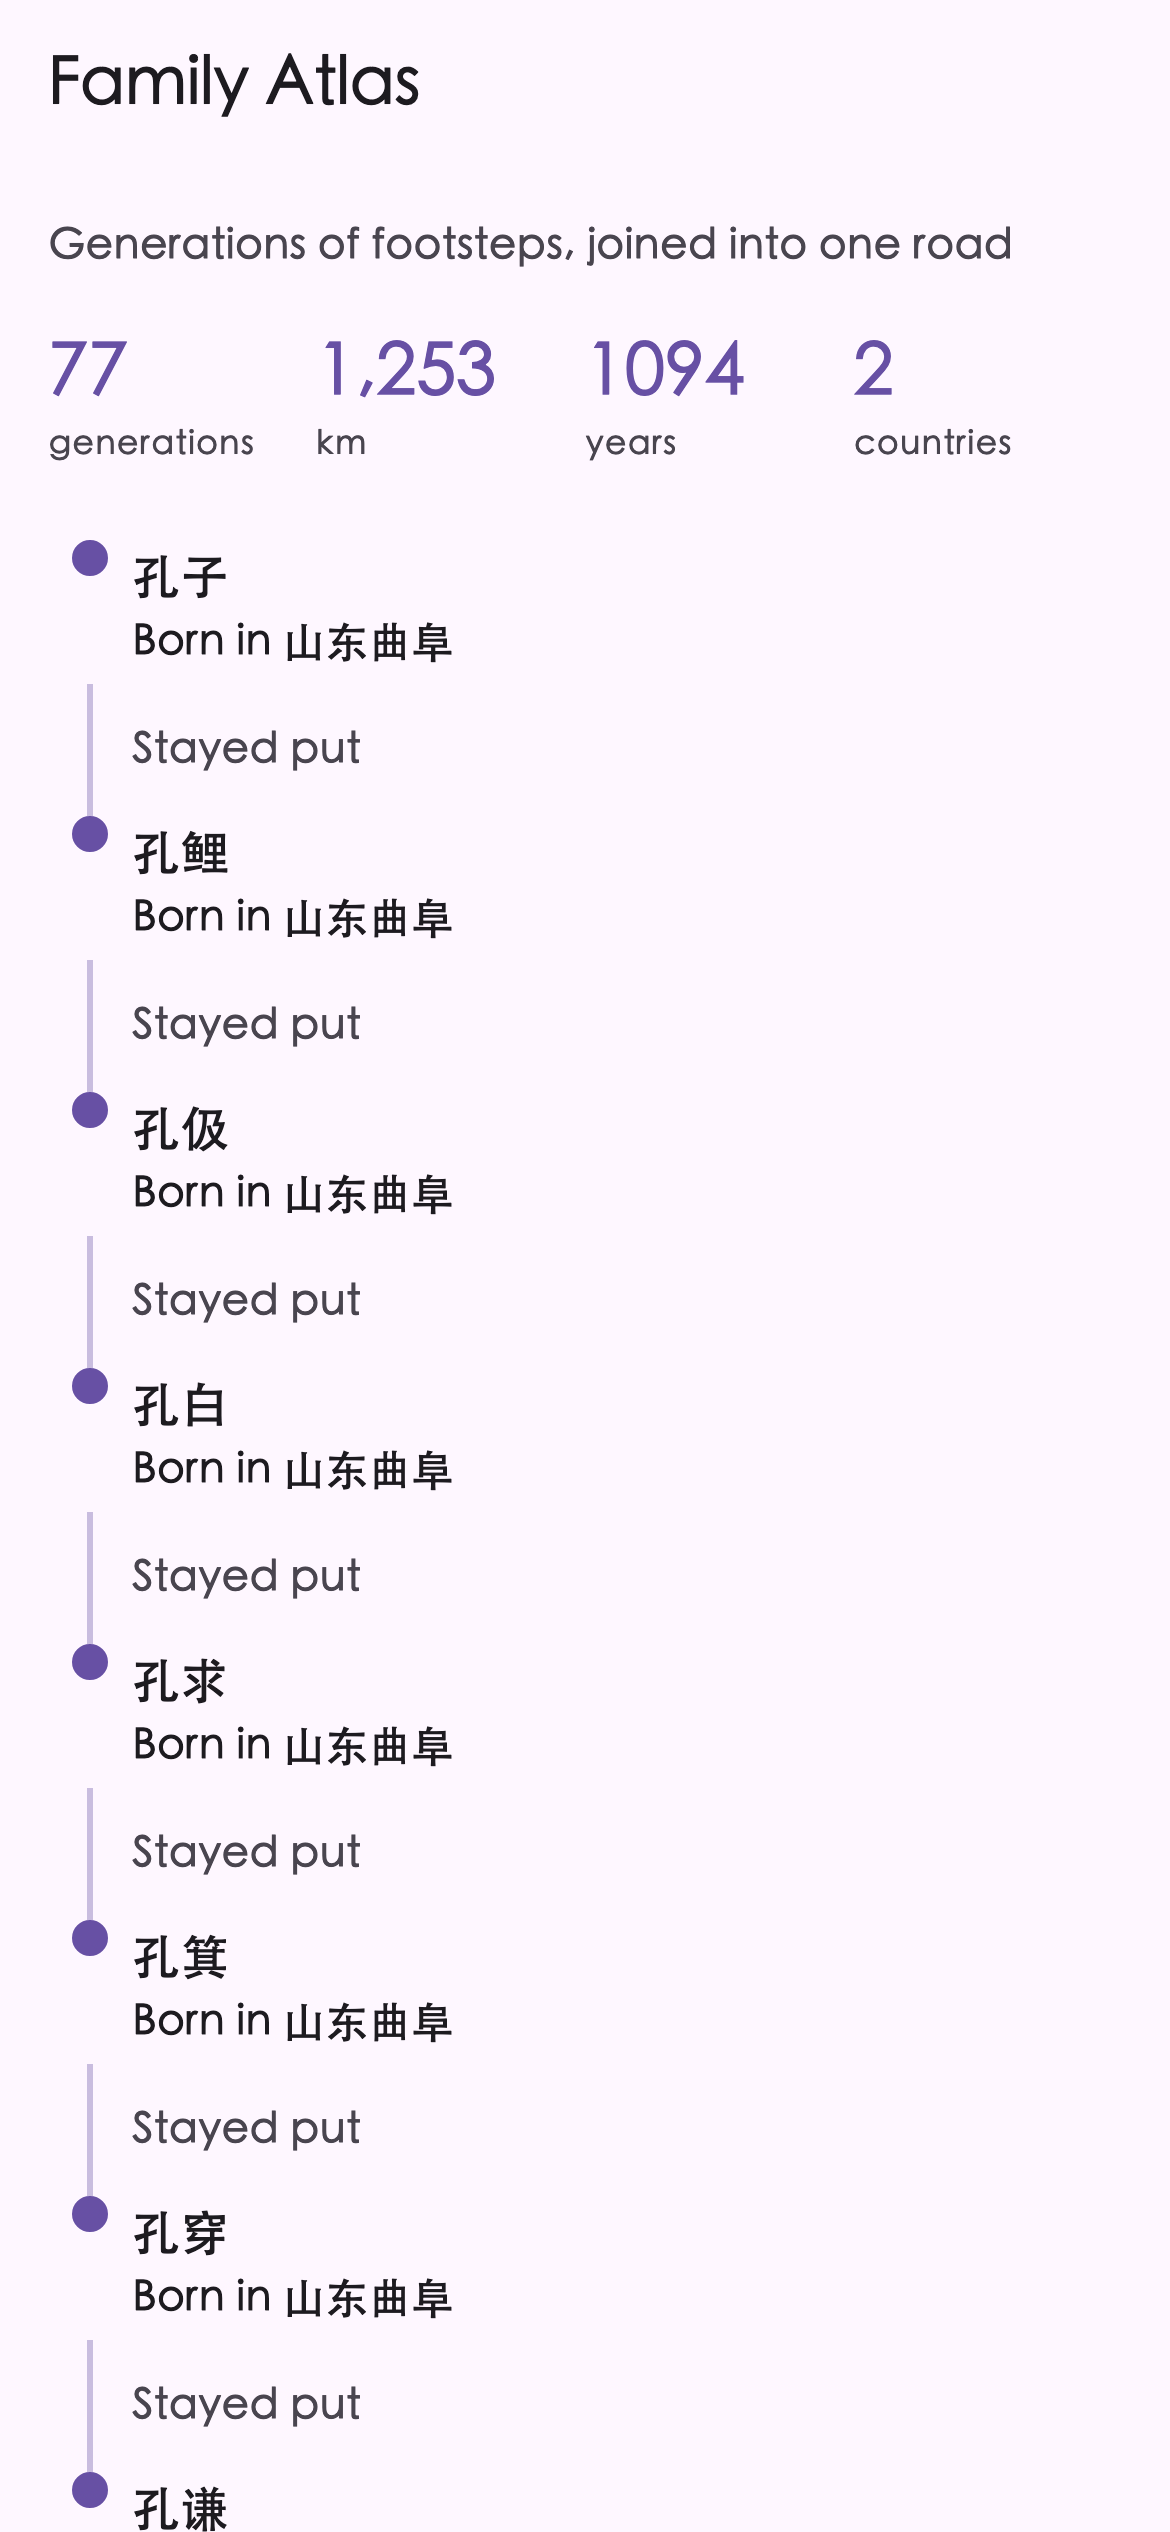
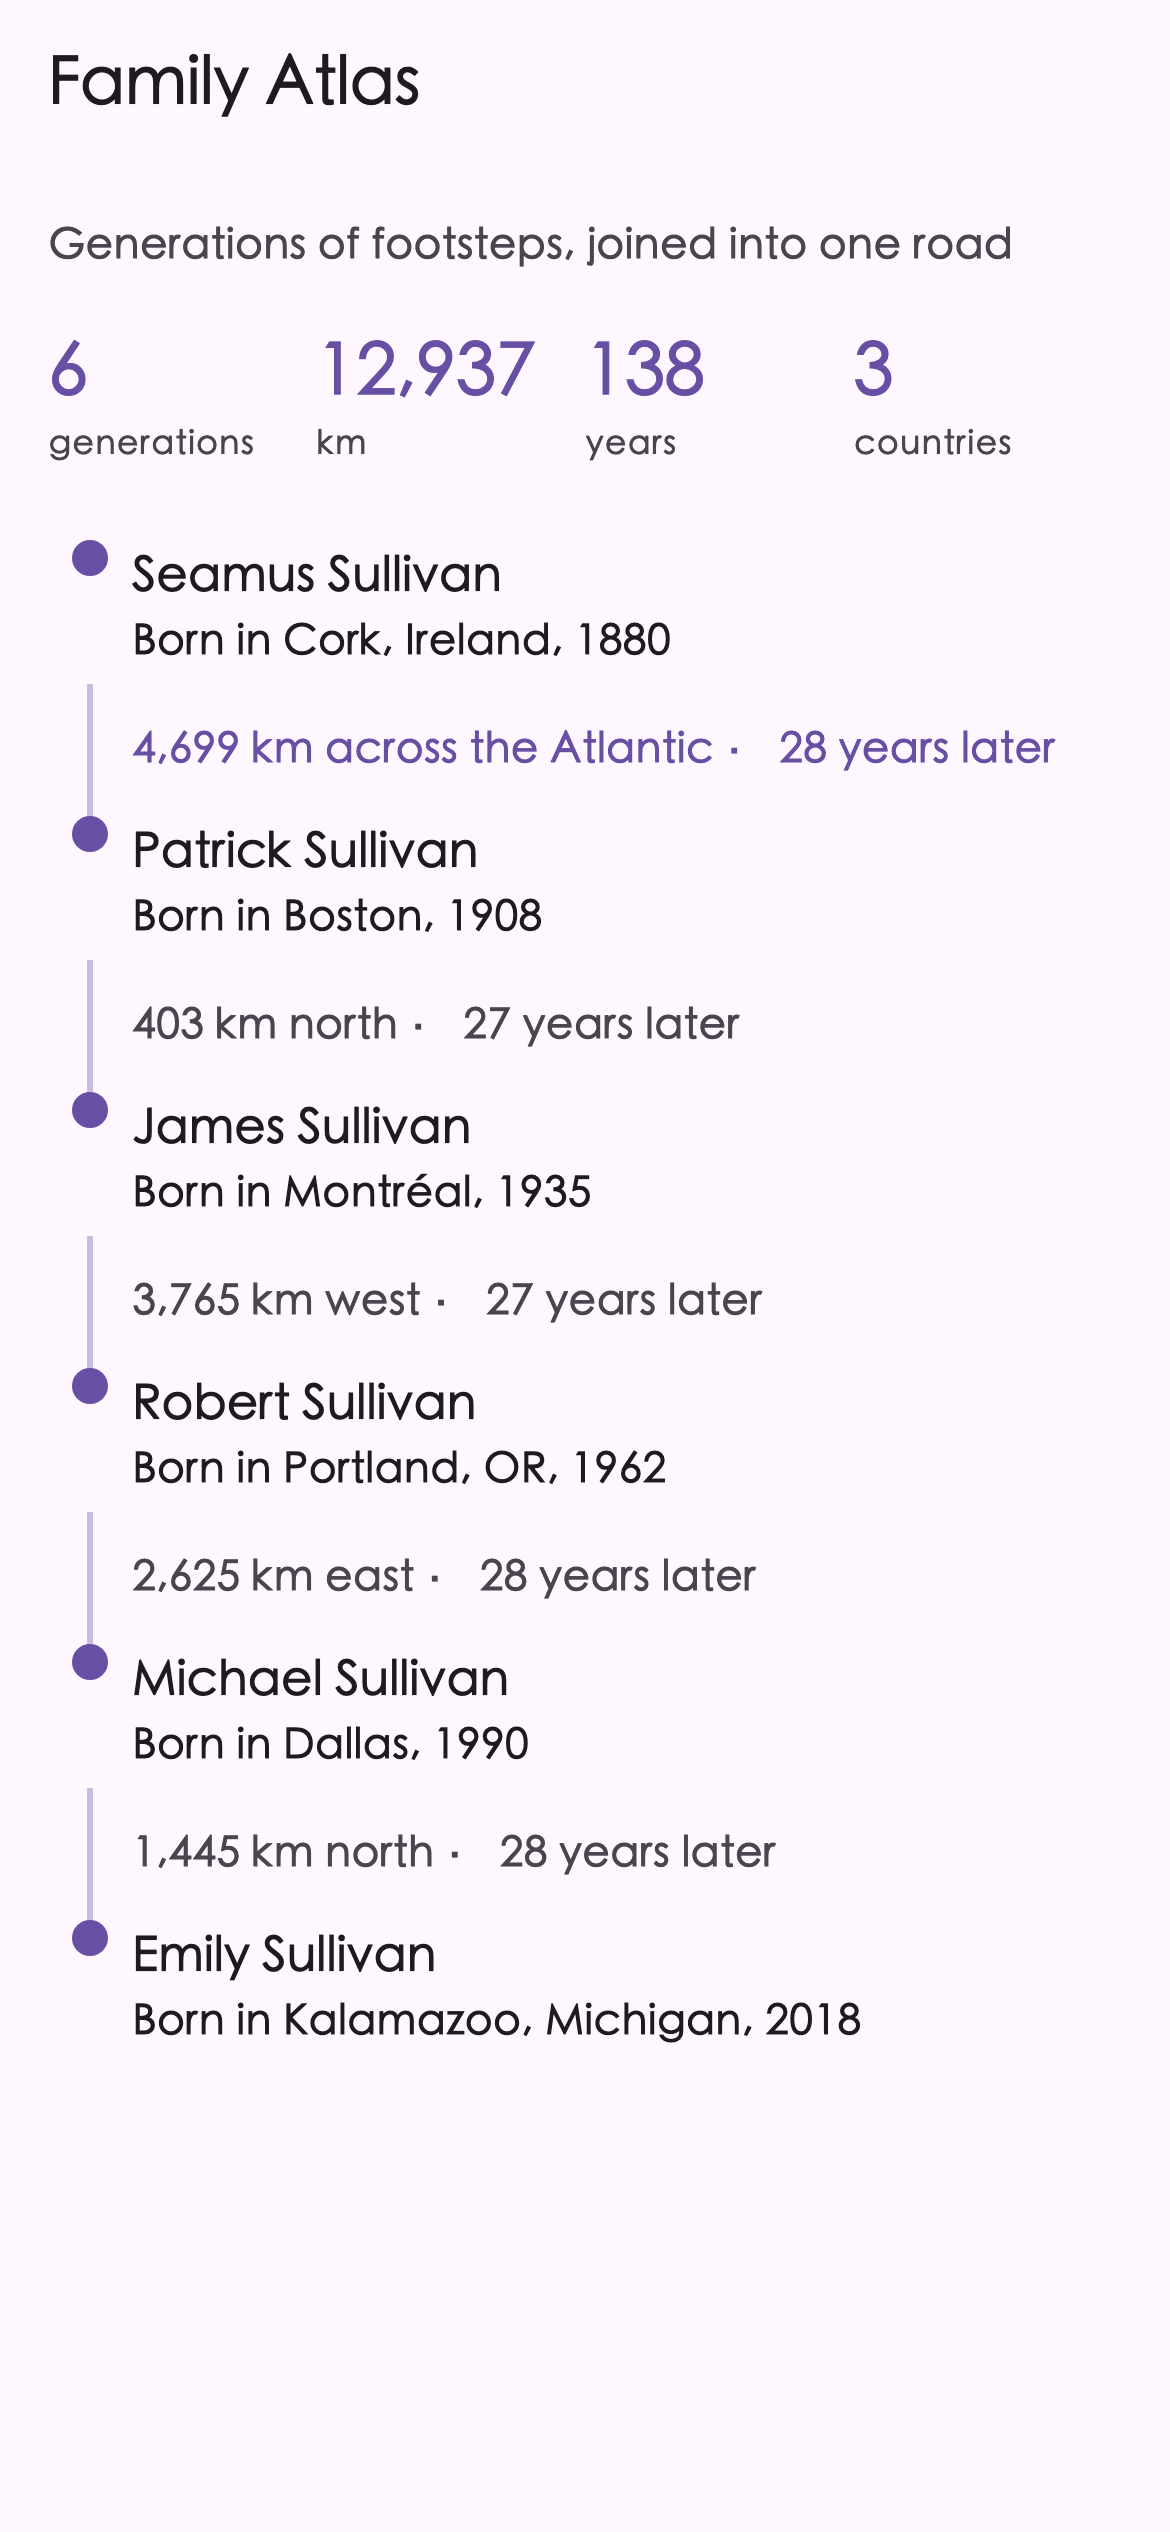
Every language gets its own data, not just its own chrome
Founder 2026-08-09: 英文的用英文数据，不要展示任何中文同理别的语言也是.

The English 家族版图 still read 「Born in 山东曲阜」 under 孔子 and 孔鲤 — the
interface had been translated and the family had not. So the DATA now changes
with the language:

  zh / zh_Hant   孔子 — 77 generations in 曲阜, then 台北. 1,253 km, 1094 years
  en/es/fr/hi    the Sullivans, from `demo_family_na_test.dart`, built for
                 exactly this: Cork → Boston → Montréal → Portland → Dallas →
                 Kalamazoo. 6 generations, 12,937 km, 138 years, 3 countries,
                 and the Atlantic leg picked out in the accent colour

Not a Chinese character in the English, Spanish, French or Hindi shots.

Two shots are localised so far — the tree and the route — because the app
renders those itself, so a language is a build step rather than a re-shoot.
The card, gallery, styles and wide shots are still Simplified Chinese; the
map has to stay a phone screenshot since MKMapView will not draw under the
test binding.

Each localised shot keeps a base copy under its plain name, so the `src` in
the HTML always resolves before any JavaScript has run.

Claude-Session: https://claude.ai/code/session_01RMCRCV7xvKY1Q5cViJKugt

diff --git a/app.js b/app.js
@@ -505,7 +505,8 @@ function t(key) {
    rest are photographed on a real phone and are Simplified Chinese only for
    now — an <img> whose name is not listed here keeps its base file rather
    than 404ing (founder 2026-08-09: 切换语言后照片也换语言吗). */
-const SHOT_LANGS = { route: ['zh', 'zh_Hant', 'en', 'es', 'fr', 'hi'] };
+const ALL_LANGS = ['zh', 'zh_Hant', 'en', 'es', 'fr', 'hi'];
+const SHOT_LANGS = { tree: ALL_LANGS, route: ALL_LANGS };
 
 function applyShotLangs() {
   document.querySelectorAll('img[data-shot]').forEach((img) => {
